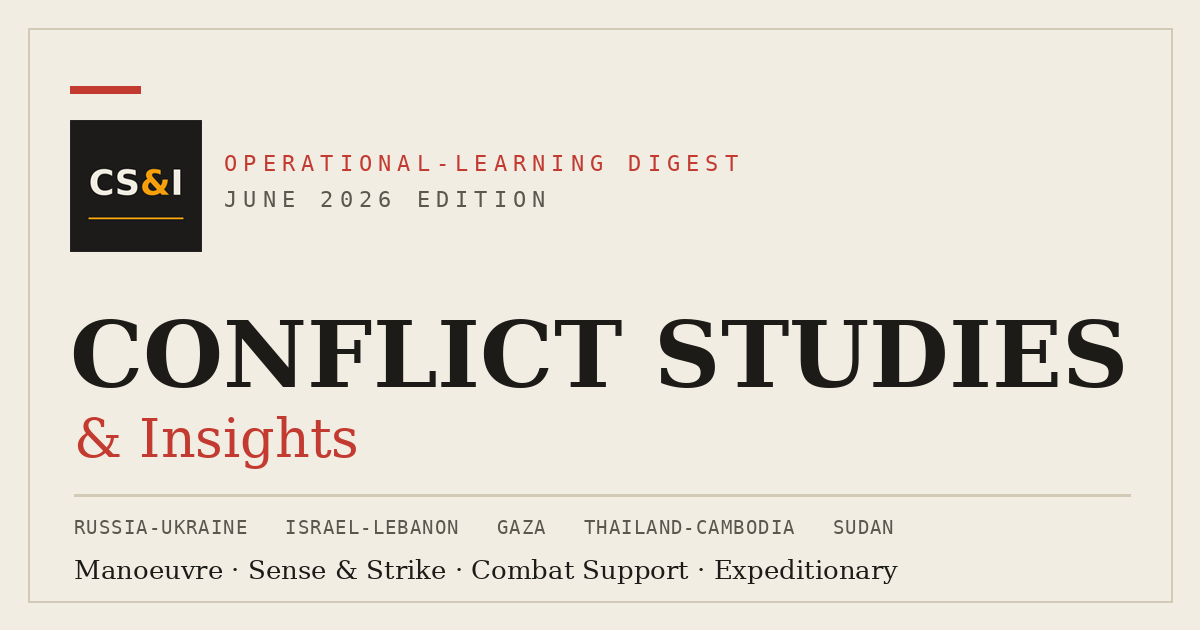
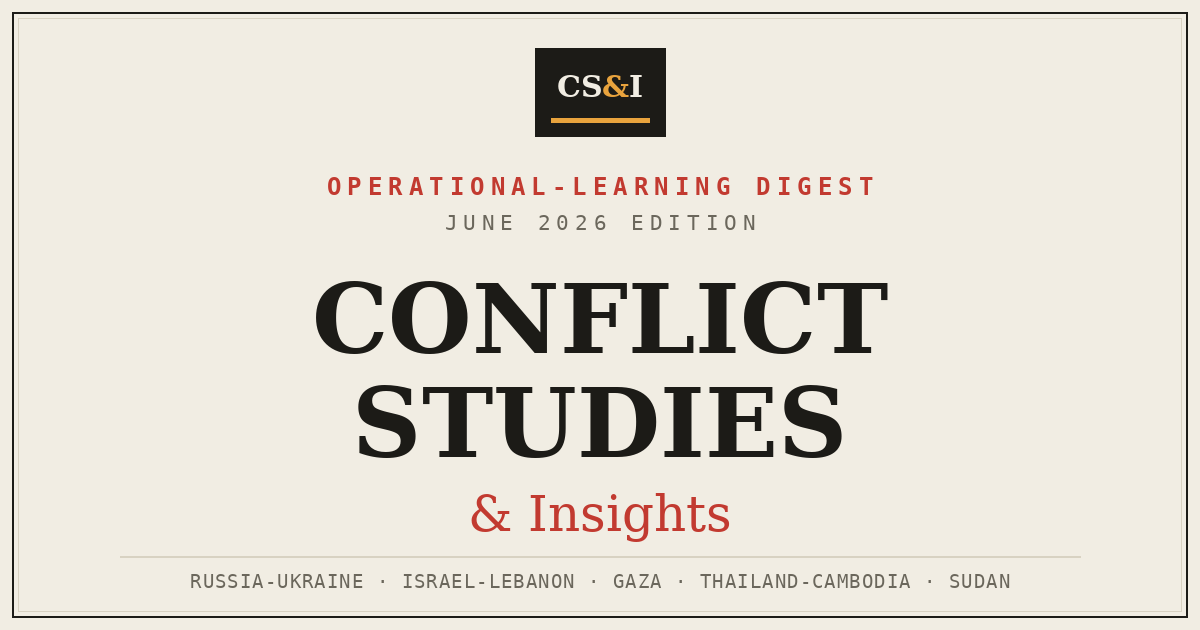
Make the share-card cover safe for square thumbnail crops (#58)
Small link previews (WhatsApp compose, iMessage compact, Telegram)
centre-crop the wide 1200x630 cover to a square, and the old
left-aligned layout cropped the wordmark to gibberish. The cover is
now centre-weighted — badge, kicker and the stacked CONFLICT /
STUDIES / & Insights wordmark all sit inside the central 630px square —
so both the large card and the small square thumb read correctly.
og:image cache-busted to ?v=2 so scrapers re-fetch.

Claude-Session: https://claude.ai/code/session_01W93LT3vkBdd3wGNnrDPbeS

Changed region(s): [[0.0, 0.0, 1.0, 0.9952], [0.0617, 0.4222, 0.9558, 0.754], [0.0617, 0.1206, 0.1233, 0.1508]]

diff --git a/index.html b/index.html
@@ -19,14 +19,14 @@
 <meta property="og:type" content="website">
 <meta property="og:url" content="https://csi-monthly-insights.pages.dev/">
 <meta property="og:description" content="Monthly operational-learning digest distilling tactical insights from active conflicts into formation-ready learning packs.">
-<meta property="og:image" content="https://csi-monthly-insights.pages.dev/og-cover.png?v=1">
+<meta property="og:image" content="https://csi-monthly-insights.pages.dev/og-cover.png?v=2">
 <meta property="og:image:width" content="1200">
 <meta property="og:image:height" content="630">
 <meta property="og:image:alt" content="Conflict Studies &amp; Insights — operational-learning digest, June 2026 edition">
 <meta name="twitter:card" content="summary_large_image">
 <meta name="twitter:title" content="Conflict Studies &amp; Insights">
 <meta name="twitter:description" content="Monthly operational-learning digest distilling tactical insights from active conflicts into formation-ready learning packs.">
-<meta name="twitter:image" content="https://csi-monthly-insights.pages.dev/og-cover.png?v=1">
+<meta name="twitter:image" content="https://csi-monthly-insights.pages.dev/og-cover.png?v=2">
 <link rel="preconnect" href="https://fonts.googleapis.com">
 <link rel="preconnect" href="https://fonts.gstatic.com" crossorigin>
 <link href="https://fonts.googleapis.com/css2?family=Source+Serif+4:ital,opsz,wght@0,8..60,500;0,8..60,600;0,8..60,700;1,8..60,500;1,8..60,600&family=IBM+Plex+Mono:wght@400;500;600&family=IBM+Plex+Sans:wght@400;500;600;700&display=swap" rel="stylesheet">

diff --git a/sw.js b/sw.js
@@ -1,6 +1,6 @@
 /* Conflict Studies & Insights — service worker.
    Bump CACHE (v1 -> v2 ...) whenever you publish a new edition to force a refresh. */
-const CACHE = 'csi-insights-v59';
+const CACHE = 'csi-insights-v60';
 const ASSETS = [
   './', './index.html', './data.js', './manifest.webmanifest',
   './icon-192.png', './icon-512.png', './icon-512-maskable.png', './apple-touch-icon.png', './og-cover.png'